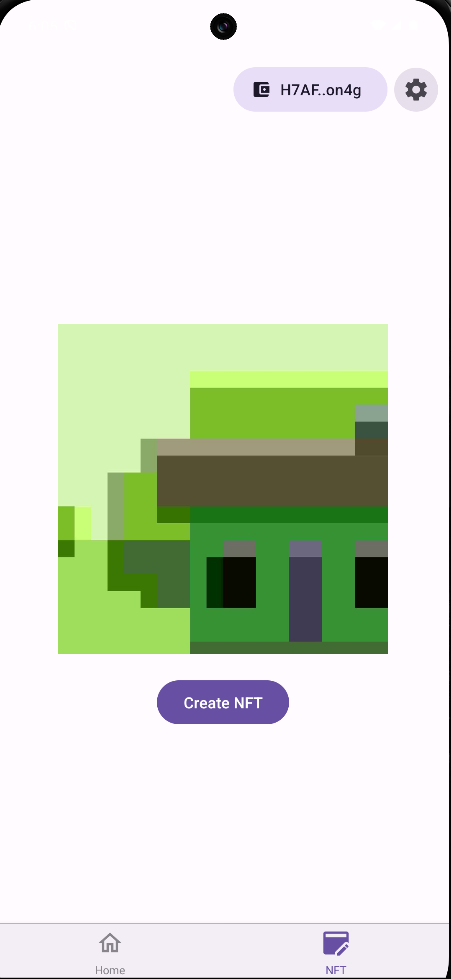
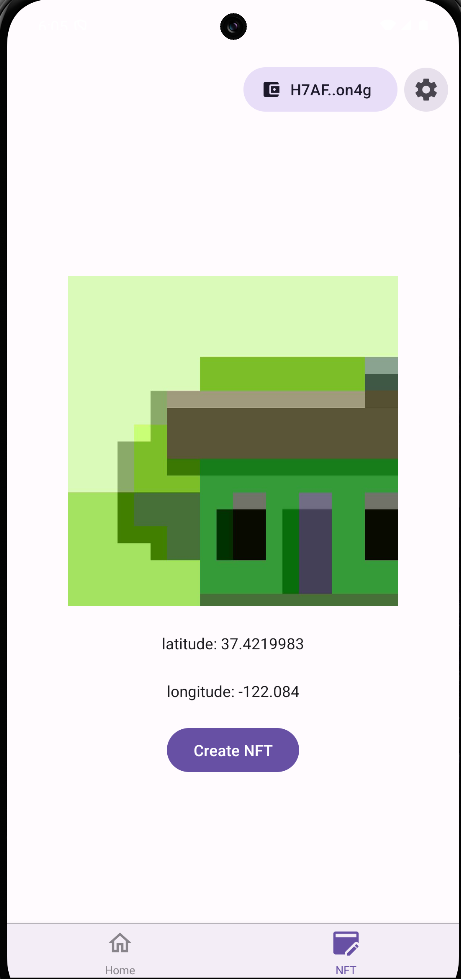
update readme

diff --git a/README.md b/README.md
@@ -35,3 +35,13 @@
 
 [Solution code](./s6-solana-pay)
   
+## s7-mobile
+**Assignment:** Build an app that captures an image through the camera, mints an NFT with that image, and adds the current location longitude, latitude in the metadata.
+
+[Solution code](./s7-mobile2)
+  
+## s6-cnft
+**Assignment:** Create a cNFT collection of your own profile picture and social links as metadata and airdrop it to other fellows.
+
+[Solution code](./s8-cnft)
+  
